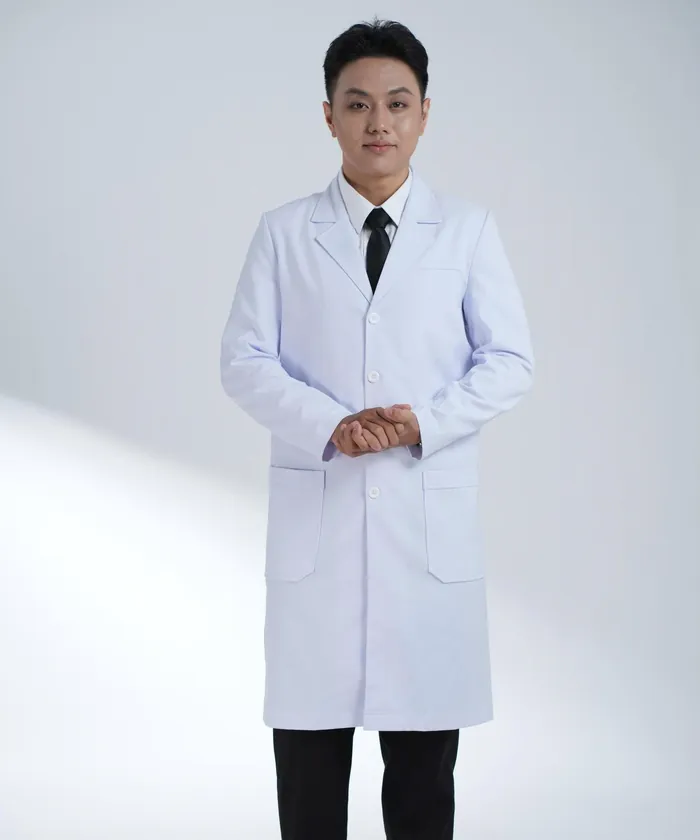
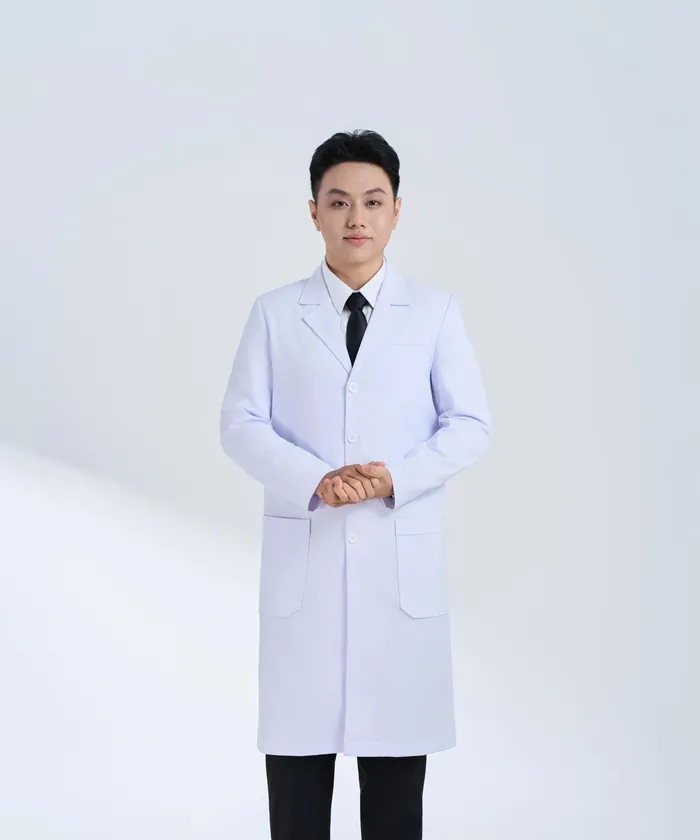
feat: use the retouched photographs and apply the owner's corrections
Retouched photographs
All fifteen studio slots are rebuilt from the newly edited set, which has
noticeably cleaner backdrops. Indices map one to one with the previous batch
once the hash digits are stripped, so every slot keeps its subject. The
owner's portrait is the one exception: the new set has no tight headshot of
her, only waist-up frames, so the existing crop stays rather than trading a
proper headshot for a softer one.

Two corrections from the owner, via the photo labels she sent
1. The black peplum suit is the SPA uniform, not an office jacket. It had
   been listed under Office as "Vest Nữ Công Sở" and again as two gallery
   tiles, so the same garment appeared in the wrong sector. The spa card now
   carries that real photograph in place of the AI illustration, the
   duplicate office card is removed, and the two gallery tiles are renamed
   and recaptioned as spa. Because the spa card is now a real photograph it
   loses its "Ảnh minh hoạ" badge — three illustrations remain, all of them
   genuinely AI.
2. She calls the teal set simply "bộ scrubs", so the card drops the theatre
   framing I had inferred from the photograph alone. Descriptions of the
   services the workshop offers are left alone; only the label I invented
   for that image changed.

Products go from fourteen cards to thirteen, Office from four to three, and
one more AI illustration is replaced by real work.

Verified before pushing, both locales: 23 images, none broken, all WebP, no
[…]

diff --git a/index.html b/index.html
@@ -272,11 +272,11 @@
             <img src="images/p-scrubs-phongmo.jpg" alt="Bộ scrubs xanh cổ tim, áo và quần rời, form rộng dễ vận động." width="700" height="840" loading="lazy" decoding="async" class="product-photo">
           </picture></div>
           <div class="product-info">
-            <h3 class="product-name">Bộ Scrubs Phòng Mổ</h3>
+            <h3 class="product-name">Bộ Scrubs</h3>
             <p class="product-desc">Bộ scrubs xanh cổ tim, áo và quần rời, form rộng dễ vận động.</p>
             <div class="product-meta">
               <span class="product-category-tag">Y tế</span>
-              <a href="#contact" class="product-link" data-service="surgical">Đặt hàng<span class="sr-only"> Bộ Scrubs Phòng Mổ</span><svg viewBox="0 0 24 24" fill="none" stroke="currentColor" stroke-width="2" aria-hidden="true"><path d="M5 12h14M12 5l7 7-7 7"/></svg></a>
+              <a href="#contact" class="product-link" data-service="surgical">Đặt hàng<span class="sr-only"> Bộ Scrubs</span><svg viewBox="0 0 24 24" fill="none" stroke="currentColor" stroke-width="2" aria-hidden="true"><path d="M5 12h14M12 5l7 7-7 7"/></svg></a>
             </div>
           </div>
         </article>
@@ -356,21 +356,6 @@
           </div>
         </article>
 
-        <article class="product-card reveal d2" data-category="office">
-          <div class="media"><picture>
-            <source srcset="images/p-vest-nu.webp" type="image/webp">
-            <img src="images/p-vest-nu.jpg" alt="Vest peplum tay ngắn, cúc bọc, dáng tôn eo." width="700" height="840" loading="lazy" decoding="async" class="product-photo">
-          </picture></div>
-          <div class="product-info">
-            <h3 class="product-name">Vest Nữ Công Sở</h3>
-            <p class="product-desc">Vest peplum tay ngắn, cúc bọc, dáng tôn eo.</p>
-            <div class="product-meta">
-              <span class="product-category-tag">Văn phòng</span>
-              <a href="#contact" class="product-link" data-service="office-vest">Đặt hàng<span class="sr-only"> Vest Nữ Công Sở</span><svg viewBox="0 0 24 24" fill="none" stroke="currentColor" stroke-width="2" aria-hidden="true"><path d="M5 12h14M12 5l7 7-7 7"/></svg></a>
-            </div>
-          </div>
-        </article>
-
         <article class="product-card reveal" data-category="office">
           <div class="media"><picture>
             <source srcset="images/p-vanphong-doi.webp" type="image/webp">
@@ -434,14 +419,14 @@
         <article class="product-card reveal" data-category="hospitality">
           <div class="media"><picture>
             <source srcset="images/p-spa.webp" type="image/webp">
-            <img src="images/p-spa.jpg" alt="Nhân viên spa mặc bộ tunic màu xanh sage" width="700" height="840" loading="lazy" decoding="async" class="product-photo">
-          </picture><span class="badge-illus">Ảnh minh hoạ</span></div>
+            <img src="images/p-spa.jpg" alt="Bộ đồng phục spa peplum đen kèm chân váy" width="700" height="840" loading="lazy" decoding="async" class="product-photo">
+          </picture></div>
           <div class="product-info">
-            <h3 class="product-name">Đồng Phục Thẩm Mỹ Viện</h3>
-            <p class="product-desc">Áo tunic vạt chéo cổ trụ màu xanh sage, tay lỡ, dáng thanh lịch.</p>
+            <h3 class="product-name">Đồng Phục Spa</h3>
+            <p class="product-desc">Áo peplum tay ngắn, cúc bọc, kèm chân váy bút chì — dáng thanh lịch cho spa và thẩm mỹ viện.</p>
             <div class="product-meta">
               <span class="product-category-tag">Dịch vụ</span>
-              <a href="#contact" class="product-link" data-service="spa">Đặt hàng<span class="sr-only"> Đồng Phục Thẩm Mỹ Viện</span><svg viewBox="0 0 24 24" fill="none" stroke="currentColor" stroke-width="2" aria-hidden="true"><path d="M5 12h14M12 5l7 7-7 7"/></svg></a>
+              <a href="#contact" class="product-link" data-service="spa">Đặt hàng<span class="sr-only"> Đồng Phục Spa</span><svg viewBox="0 0 24 24" fill="none" stroke="currentColor" stroke-width="2" aria-hidden="true"><path d="M5 12h14M12 5l7 7-7 7"/></svg></a>
             </div>
           </div>
         </article>
@@ -592,17 +577,17 @@
         </figure>
         <figure class="gallery-item reveal d2">
           <div class="media"><picture>
-            <source srcset="images/g-vest-peplum.webp" type="image/webp">
-            <img src="images/g-vest-peplum.jpg" alt="Vest nữ peplum màu đen kèm chân váy" width="700" height="933" loading="lazy" decoding="async" class="gallery-photo">
+            <source srcset="images/g-spa-dang-dung.webp" type="image/webp">
+            <img src="images/g-spa-dang-dung.jpg" alt="Bộ đồng phục spa peplum đen kèm chân váy" width="700" height="933" loading="lazy" decoding="async" class="gallery-photo">
           </picture></div>
-          <figcaption>Vest nữ peplum</figcaption>
+          <figcaption>Đồng phục spa</figcaption>
         </figure>
         <figure class="gallery-item reveal d3">
           <div class="media"><picture>
-            <source srcset="images/g-vest-pose.webp" type="image/webp">
-            <img src="images/g-vest-pose.jpg" alt="Vest nữ peplum dáng ôm" width="700" height="933" loading="lazy" decoding="async" class="gallery-photo">
+            <source srcset="images/g-spa-dang-nghieng.webp" type="image/webp">
+            <img src="images/g-spa-dang-nghieng.jpg" alt="Bộ đồng phục spa, góc nghiêng" width="700" height="933" loading="lazy" decoding="async" class="gallery-photo">
           </picture></div>
-          <figcaption>Vest nữ dáng ôm</figcaption>
+          <figcaption>Đồng phục spa, góc nghiêng</figcaption>
         </figure>
       </div>
     </div>

diff --git a/en.html b/en.html
@@ -272,11 +272,11 @@
             <img src="images/p-scrubs-phongmo.jpg" alt="A green V-neck scrub set, separate top and trousers, cut loose to move in." width="700" height="840" loading="lazy" decoding="async" class="product-photo">
           </picture></div>
           <div class="product-info">
-            <h3 class="product-name">Theatre Scrub Set</h3>
+            <h3 class="product-name">Scrub Set</h3>
             <p class="product-desc">A green V-neck scrub set, separate top and trousers, cut loose to move in.</p>
             <div class="product-meta">
               <span class="product-category-tag">Healthcare</span>
-              <a href="#contact" class="product-link" data-service="surgical">Order<span class="sr-only"> Theatre Scrub Set</span><svg viewBox="0 0 24 24" fill="none" stroke="currentColor" stroke-width="2" aria-hidden="true"><path d="M5 12h14M12 5l7 7-7 7"/></svg></a>
+              <a href="#contact" class="product-link" data-service="surgical">Order<span class="sr-only"> Scrub Set</span><svg viewBox="0 0 24 24" fill="none" stroke="currentColor" stroke-width="2" aria-hidden="true"><path d="M5 12h14M12 5l7 7-7 7"/></svg></a>
             </div>
           </div>
         </article>
@@ -356,21 +356,6 @@
           </div>
         </article>
 
-        <article class="product-card reveal d2" data-category="office">
-          <div class="media"><picture>
-            <source srcset="images/p-vest-nu.webp" type="image/webp">
-            <img src="images/p-vest-nu.jpg" alt="A short-sleeved peplum jacket with covered buttons and a defined waist." width="700" height="840" loading="lazy" decoding="async" class="product-photo">
-          </picture></div>
-          <div class="product-info">
-            <h3 class="product-name">Women&#39;s Office Jacket</h3>
-            <p class="product-desc">A short-sleeved peplum jacket with covered buttons and a defined waist.</p>
-            <div class="product-meta">
-              <span class="product-category-tag">Office</span>
-              <a href="#contact" class="product-link" data-service="office-vest">Order<span class="sr-only"> Women&#39;s Office Jacket</span><svg viewBox="0 0 24 24" fill="none" stroke="currentColor" stroke-width="2" aria-hidden="true"><path d="M5 12h14M12 5l7 7-7 7"/></svg></a>
-            </div>
-          </div>
-        </article>
-
         <article class="product-card reveal" data-category="office">
           <div class="media"><picture>
             <source srcset="images/p-vanphong-doi.webp" type="image/webp">
@@ -434,14 +419,14 @@
         <article class="product-card reveal" data-category="hospitality">
           <div class="media"><picture>
             <source srcset="images/p-spa.webp" type="image/webp">
-            <img src="images/p-spa.jpg" alt="A spa therapist in a sage green tunic set" width="700" height="840" loading="lazy" decoding="async" class="product-photo">
-          </picture><span class="badge-illus">Illustration</span></div>
+            <img src="images/p-spa.jpg" alt="A black peplum spa uniform with matching skirt" width="700" height="840" loading="lazy" decoding="async" class="product-photo">
+          </picture></div>
           <div class="product-info">
-            <h3 class="product-name">Beauty Salon Uniform</h3>
-            <p class="product-desc">An elegant sage green wrap tunic with mandarin collar and cropped sleeves.</p>
+            <h3 class="product-name">Spa Uniform</h3>
+            <p class="product-desc">A short-sleeved black peplum jacket with a pencil skirt, elegant for spas and salons.</p>
             <div class="product-meta">
               <span class="product-category-tag">Hospitality</span>
-              <a href="#contact" class="product-link" data-service="spa">Order<span class="sr-only"> Beauty Salon Uniform</span><svg viewBox="0 0 24 24" fill="none" stroke="currentColor" stroke-width="2" aria-hidden="true"><path d="M5 12h14M12 5l7 7-7 7"/></svg></a>
+              <a href="#contact" class="product-link" data-service="spa">Order<span class="sr-only"> Spa Uniform</span><svg viewBox="0 0 24 24" fill="none" stroke="currentColor" stroke-width="2" aria-hidden="true"><path d="M5 12h14M12 5l7 7-7 7"/></svg></a>
             </div>
           </div>
         </article>
@@ -593,17 +578,17 @@
         </figure>
         <figure class="gallery-item reveal d2">
           <div class="media"><picture>
-            <source srcset="images/g-vest-peplum.webp" type="image/webp">
-            <img src="images/g-vest-peplum.jpg" alt="A black peplum jacket with matching skirt" width="700" height="933" loading="lazy" decoding="async" class="gallery-photo">
+            <source srcset="images/g-spa-dang-dung.webp" type="image/webp">
+            <img src="images/g-spa-dang-dung.jpg" alt="A black peplum spa uniform with matching skirt" width="700" height="933" loading="lazy" decoding="async" class="gallery-photo">
           </picture></div>
-          <figcaption>Peplum jacket</figcaption>
+          <figcaption>Spa uniform</figcaption>
         </figure>
         <figure class="gallery-item reveal d3">
           <div class="media"><picture>
-            <source srcset="images/g-vest-pose.webp" type="image/webp">
-            <img src="images/g-vest-pose.jpg" alt="A fitted black peplum jacket" width="700" height="933" loading="lazy" decoding="async" class="gallery-photo">
+            <source srcset="images/g-spa-dang-nghieng.webp" type="image/webp">
+            <img src="images/g-spa-dang-nghieng.jpg" alt="A spa uniform seen from the side" width="700" height="933" loading="lazy" decoding="async" class="gallery-photo">
           </picture></div>
-          <figcaption>Fitted peplum</figcaption>
+          <figcaption>Spa uniform, side view</figcaption>
         </figure>
       </div>
     </div>

diff --git a/tools/verify-fe.js b/tools/verify-fe.js
@@ -4,7 +4,7 @@
  * deploy by .assetsignore, so the site stays dependency-free.
  *
  *   python3 -m http.server 8780 &      # from the repo root
- *   npm i playwright-core
+ *   npm i playwright-core   # then: NODE_PATH=$(pwd)/node_modules
  *   node tools/verify-fe.js
  *
  * Checks both locales: JS/console errors, 4xx, every image loading and
@@ -63,8 +63,8 @@ for (const f of ['index.html','en.html']) {
 
   ok(await p.evaluate(()=>!document.querySelector('.owner-figure figcaption')),'owner caption removed');
   ok(await p.evaluate(()=>document.querySelectorAll('.workshop-item').length===4),'4 workshop tiles');
-  ok(await p.evaluate(()=>document.querySelectorAll('.badge-illus').length===4),'4 illustration badges');
-  ok(await p.evaluate(()=>document.querySelectorAll('.product-card').length===14),'14 product cards');
+  ok(await p.evaluate(()=>document.querySelectorAll('.badge-illus').length===3),'3 illustration badges (spa card now a real photo)');
+  ok(await p.evaluate(()=>document.querySelectorAll('.product-card').length===13),'13 product cards');
 
   // filters
   let fres=[];
@@ -72,7 +72,7 @@ for (const f of ['index.html','en.html']) {
     await p.click(`[data-filter="${c}"]`); await p.waitForTimeout(200);
     fres.push(c+'='+await p.evaluate(()=>[...document.querySelectorAll('.product-card')].filter(x=>!x.hidden).length));
   }
-  ok(fres.join(' ')==='medical=6 office=4 education=2 hospitality=2 all=14','filters '+fres.join(' '));
+  ok(fres.join(' ')==='medical=6 office=3 education=2 hospitality=2 all=13','filters '+fres.join(' '));
 
   // overflow at three widths
   for (const w of [1440,768,360]) {
